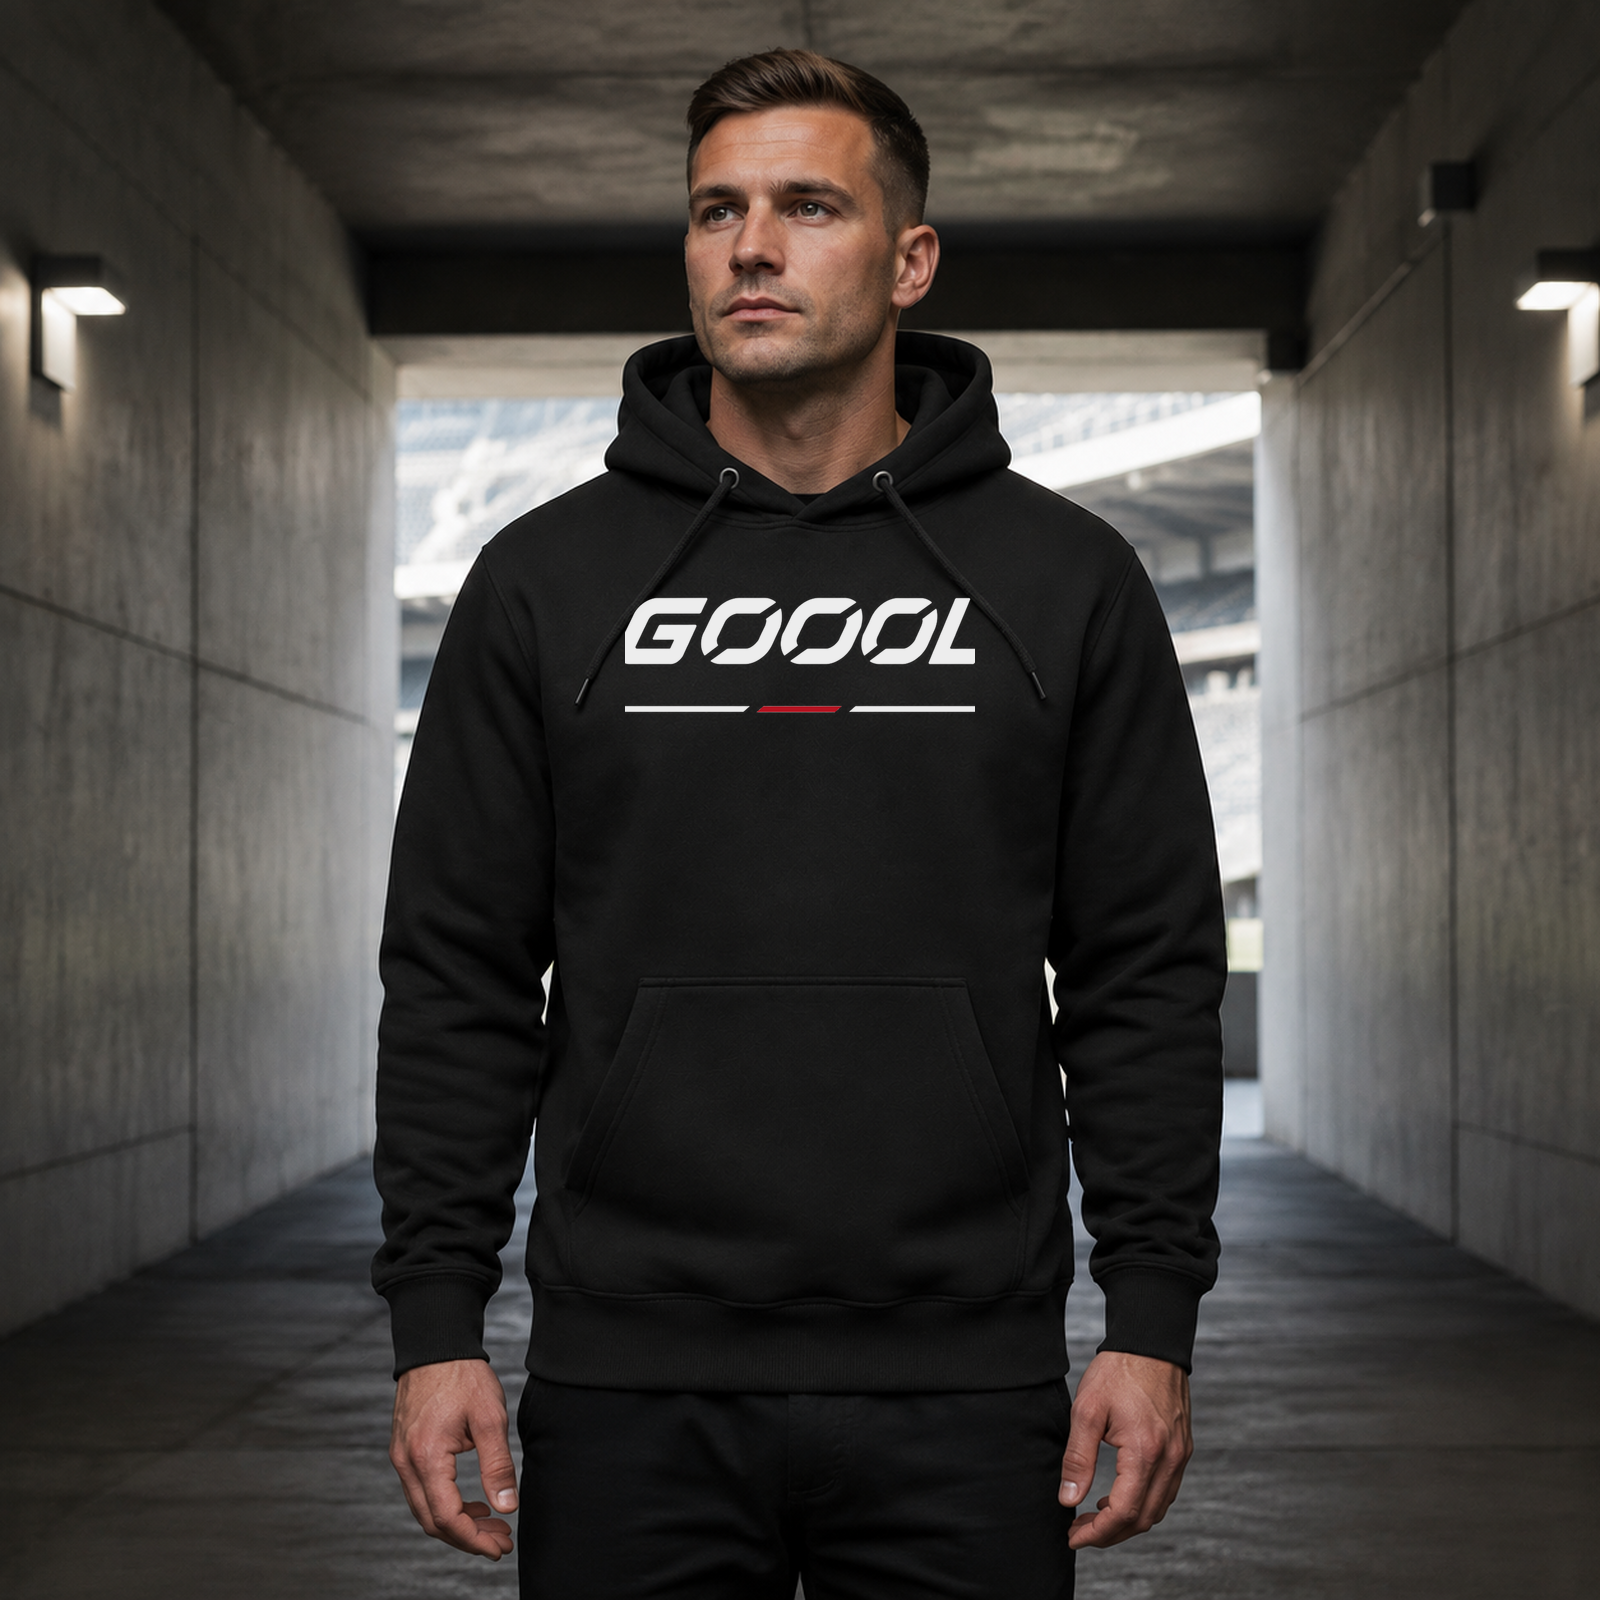
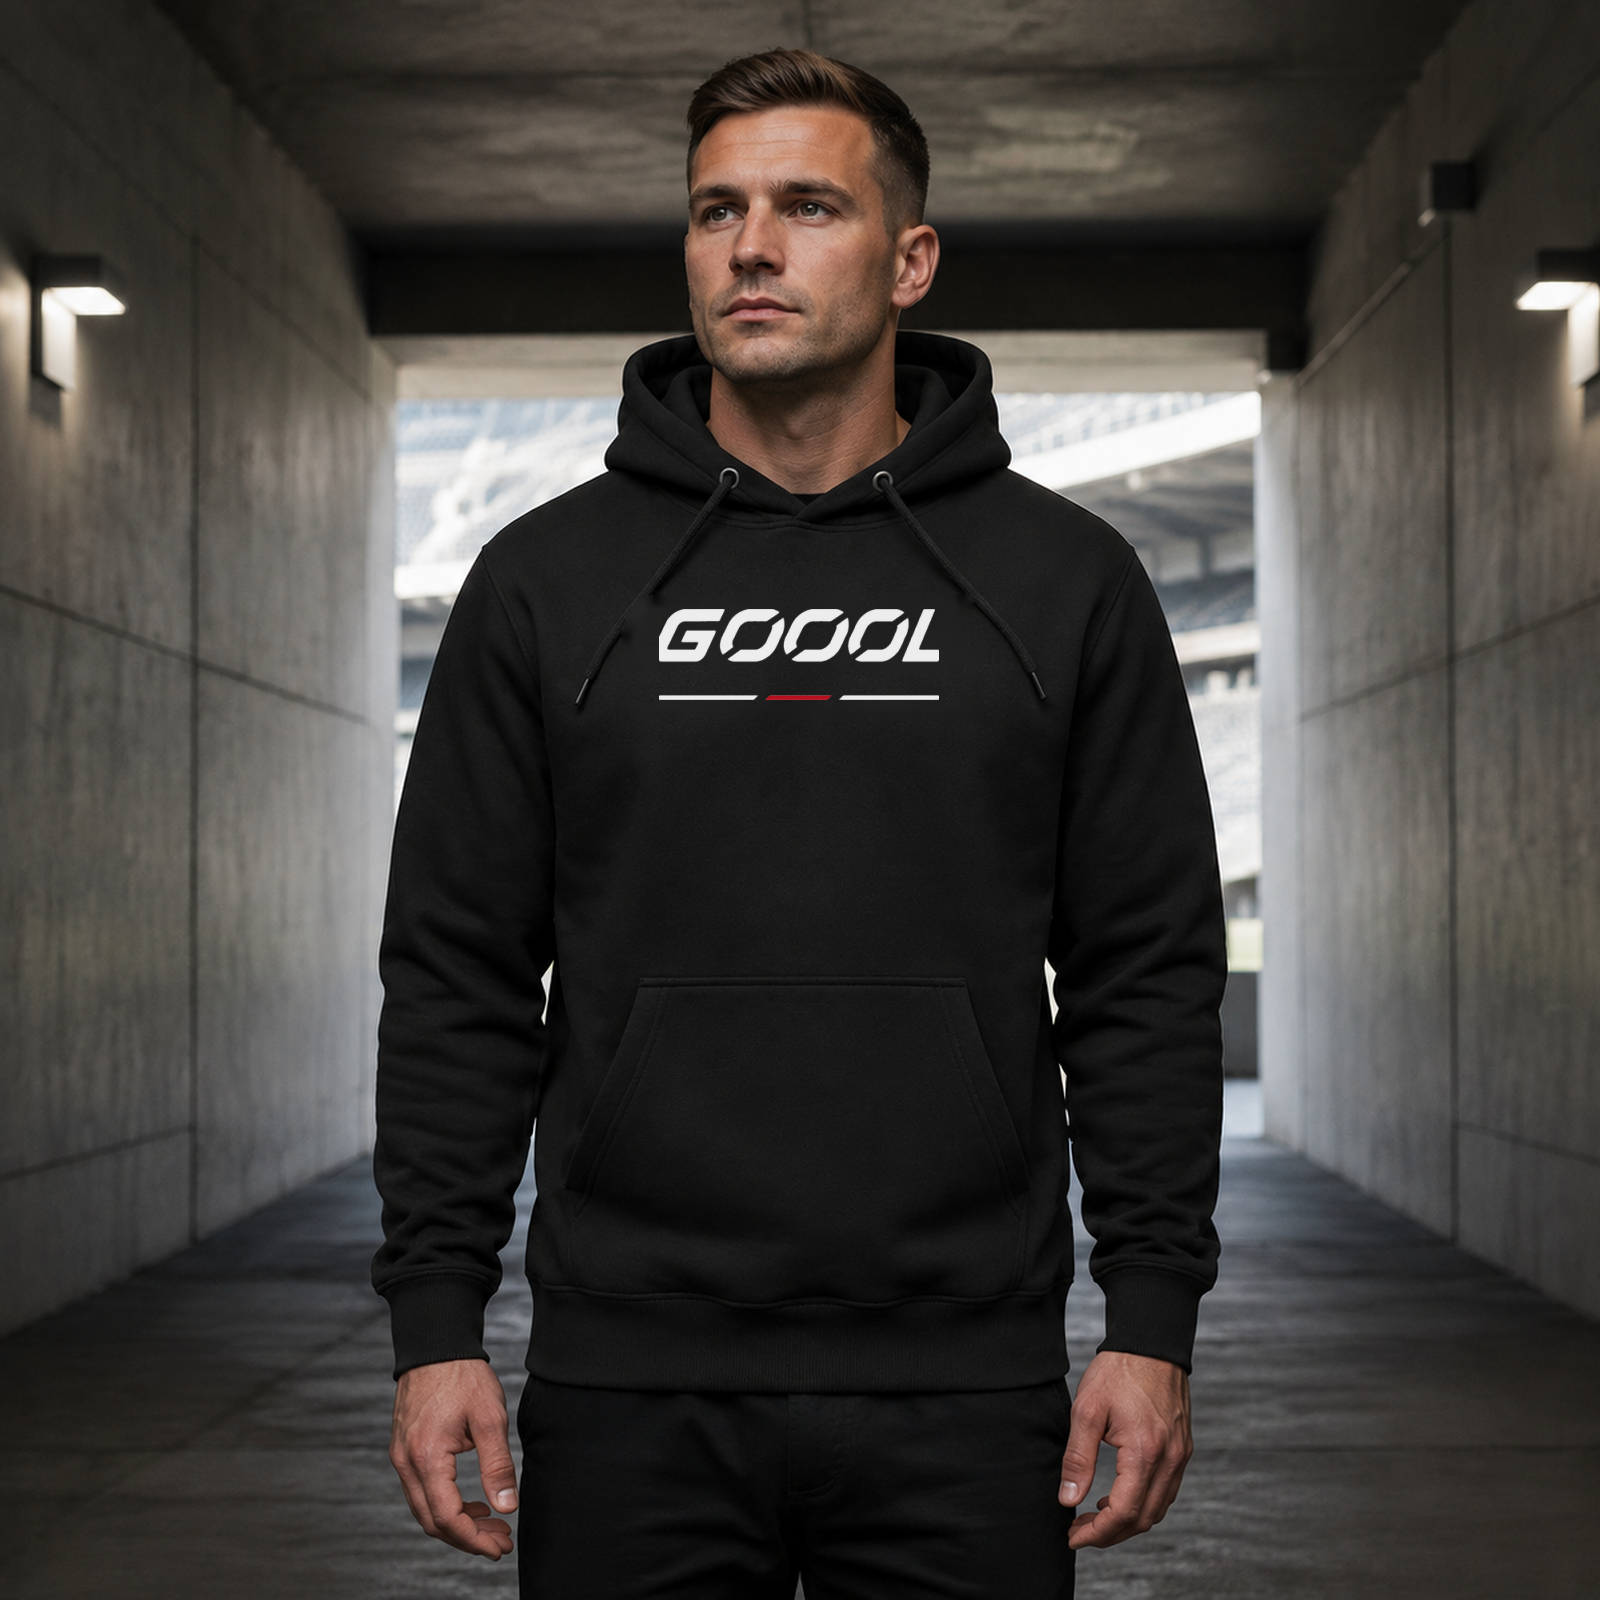
Correction pass: prelaunch trust copy, launch sizing line, truthful lifestyle print scale, 1:1 thumbnails
- Coming Soon pages: 'Secure checkout' / delivery promise replaced with
  'Release details coming soon.'
- Size selector hidden while purchasing is disabled; displays
  'Launch sizing: S-2XL' (customer-facing 2XL label; internal tokens
  unchanged) and 'One Size' for the cap
- Hoodie + casual tee lifestyle photos: chest graphic re-composited at
  production-true scale (x0.80 / x0.86) using the approved plain
  mockups as reference; artwork pixels lifted and rescaled only, never
  redrawn
- Gallery thumbnails 4:5 -> 1:1 (no crop of square imagery)

Changed region(s): [[0.375, 0.375, 0.625, 0.4688]]

diff --git a/src/components/ProductDetail.tsx b/src/components/ProductDetail.tsx
@@ -99,7 +99,7 @@ export default function ProductDetail({ product }: { product: Product }) {
                   key={img.src}
                   type="button"
                   onClick={() => setActiveImage(i)}
-                  className={`relative h-20 w-16 overflow-hidden rounded-lg bg-smoke ${
+                  className={`relative h-20 w-20 overflow-hidden rounded-lg bg-smoke ${
                     i === activeImage ? "ring-2 ring-ink" : "opacity-70 hover:opacity-100"
                   }`}
                   aria-label={`View image ${i + 1}`}
@@ -202,7 +202,18 @@ export default function ProductDetail({ product }: { product: Product }) {
           </p>
 
           <div className="mt-6 space-y-5">
-            {!singleSize && (
+            {comingSoon && (
+              <p className="text-sm font-medium text-ink">
+                Launch sizing:{" "}
+                {product.sizes.includes("OS")
+                  ? "One Size"
+                  : product.sizes
+                      .map((sz) => (sz === "XXL" ? "2XL" : sz))
+                      .filter((sz, i, a) => i === 0 || i === a.length - 1)
+                      .join("\u2013")}
+              </p>
+            )}
+            {!comingSoon && !singleSize && (
               <div>
                 <SizeSelector
                   sizes={product.sizes}
@@ -278,6 +289,11 @@ export default function ProductDetail({ product }: { product: Product }) {
             )}
 
             {/* Trust copy */}
+            {comingSoon ? (
+              <p className="flex items-center gap-1.5 text-xs text-ink/60">
+                <TrustIcon /> Release details coming soon.
+              </p>
+            ) : (
             <ul className="grid grid-cols-2 gap-2 text-xs text-ink/60">
               <li className="flex items-center gap-1.5">
                 <TrustIcon /> Secure checkout
@@ -291,6 +307,7 @@ export default function ProductDetail({ product }: { product: Product }) {
                 </li>
               )}
             </ul>
+            )}
           </div>
 
           {product.disclosure && (
